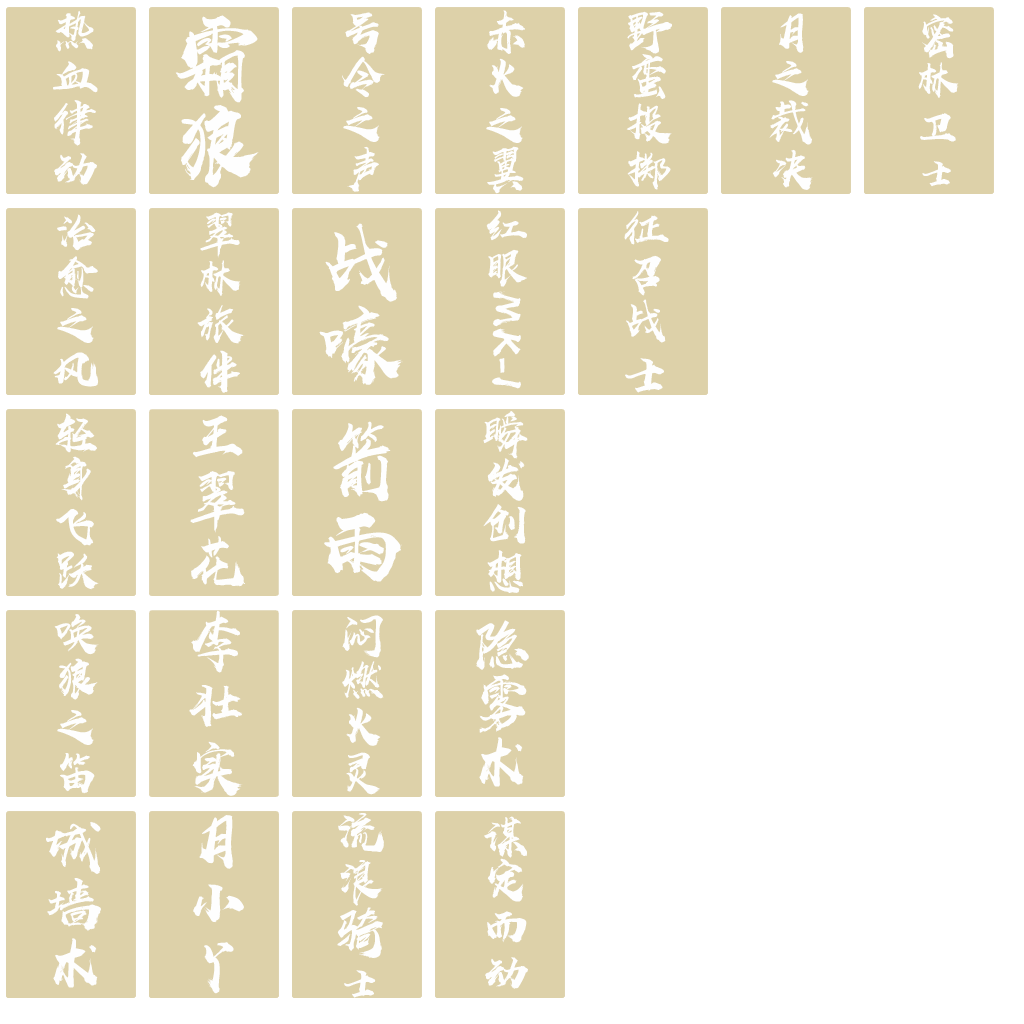
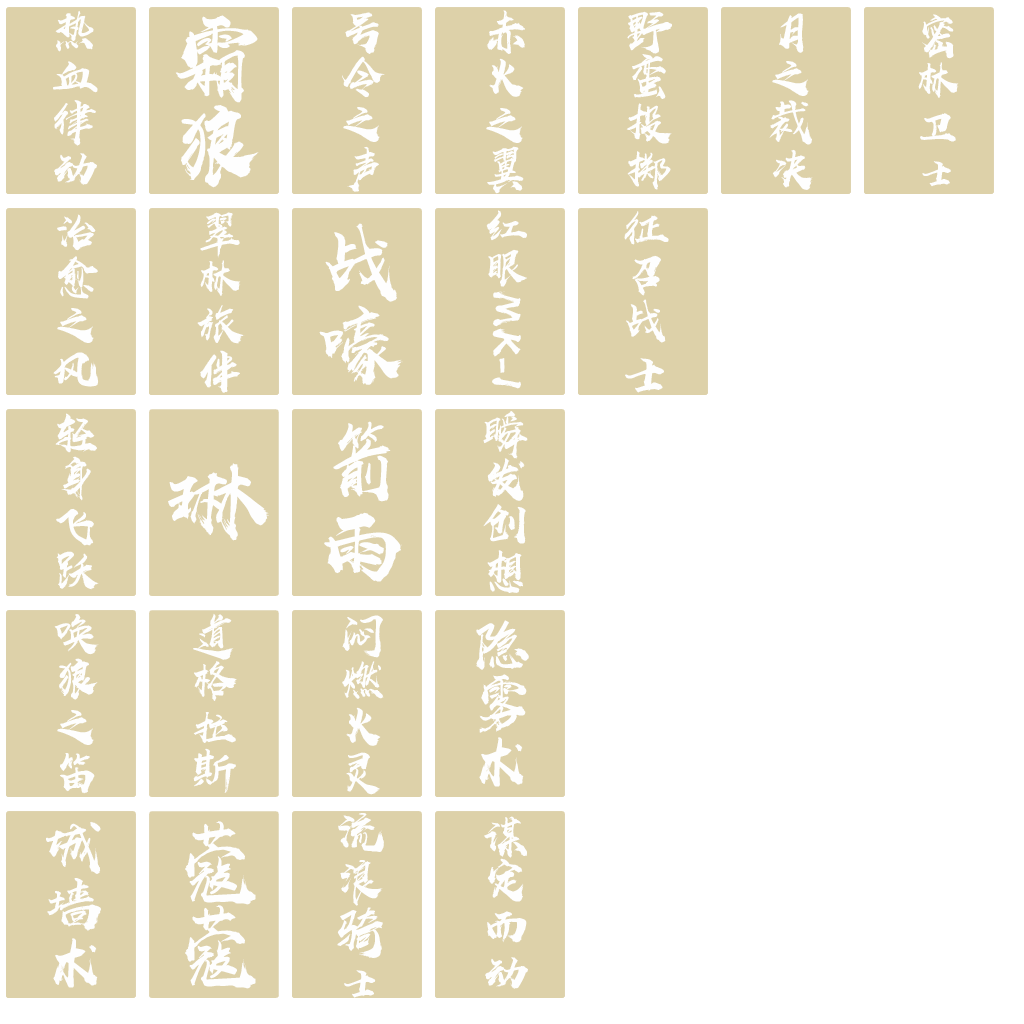
替换卡牌素材，添加事件轴调用，回合流动未添加

Changed region(s): [[0.1562, 0.4062, 0.2812, 0.9688]]

diff --git a/GloryFantasy/Assets/Scripts/Gameplay/RoundProcessController.cs b/GloryFantasy/Assets/Scripts/Gameplay/RoundProcessController.cs
@@ -1,5 +1,6 @@
 using System.Collections;
 using System.Collections.Generic;
+using GamePlay.Event;
 using IMessage;
 using UnityEngine;
 
@@ -21,6 +22,8 @@ namespace GamePlay.Round
             State = RoundState.RestoreApPhase;
             // 初始化状态后手动调用以进行当前状态的工作
             EnteringCurrentState();
+            
+            
         }
 
         /// <summary>
@@ -106,7 +109,7 @@ namespace GamePlay.Round
         }
 
         public virtual void HandleInput(RoundProcessController roundProcessController, RoundInput input) { }
-        public void Update(RoundProcessController roundProcessController) { }
+        public virtual void Update(RoundProcessController roundProcessController) { }
         public virtual void Enter(RoundProcessController roundProcessController) { }
         public virtual void Exit(RoundProcessController roundProcessController) { }
         public virtual void NextState(RoundProcessController roundProcessController)
@@ -139,7 +142,7 @@ namespace GamePlay.Round
 
         public override void Enter(RoundProcessController roundProcessController)
         {
-            base.NextState(roundProcessController);
+            base.Enter(roundProcessController);
             // 发送更新资源点消息
             MsgDispatcher.SendMsg((int)MessageType.UpdateSource);
         }
@@ -158,12 +161,15 @@ namespace GamePlay.Round
         public override void NextState(RoundProcessController roundProcessController)
         {
             base.NextState(roundProcessController);
-            roundProcessController.State = RoundState.ExtractCardsPhase;
+            roundProcessController.State = ExtractCardsPhase;
+            roundProcessController.State.Enter(roundProcessController);
         }
 
         public override void Enter(RoundProcessController roundProcessController)
         {
             base.Enter(roundProcessController);
+            // 回合开始就处理事件轴内任务
+            Gameplay.Instance().eventScroll.ProcessFirstEventModule();
             MsgDispatcher.SendMsg((int)MessageType.BP);
         }
 
@@ -206,6 +212,7 @@ namespace GamePlay.Round
         {
             base.NextState(roundProcessController);
             roundProcessController.State = RoundState.mainPhase;
+            roundProcessController.State.Enter(roundProcessController);
         }
 
         public override void Enter(RoundProcessController roundProcessController)

diff --git a/GloryFantasy/Assets/Scripts/Message/MsgDispatcher.cs b/GloryFantasy/Assets/Scripts/Message/MsgDispatcher.cs
@@ -10,6 +10,7 @@ namespace IMessage
     enum MessageType
     {
         UpdateSource, //？
+        RoundEnd,    // 阶段结束消息
         BP, //开始阶段
         MPBegin, //主要阶段开始
         MPEnd, //主要阶段结束
